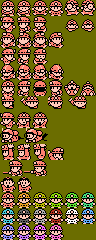
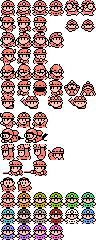
Amelioration de la gravité des rochers, png joueurs transparent, ajout du chnagement de couleur en fonction des niveaux, ajout mort du joueur et de son animation (fixe)

diff --git a/controller/src/main/java/controller/Controller.java b/controller/src/main/java/controller/Controller.java
@@ -108,12 +108,9 @@ public final class Controller implements IController {
 		}
 
 		if (nextBlockType != BlockType.WALL && nextBlockType != BlockType.ROCK){
-			if (nowBlockType == BlockType.DIRT){
-				model.getMap().TransformToDirt(model.IndexPos(nowX), model.IndexPos(nowY));
-			}
 
 
-			// gravité
+			// gravité des Rochers
 			int run = 0;
 			int prevTopX = model.getMap().CoordoneeXNextBlock(model.getPlayer(), "UP");
 			int prevTopY = model.getMap().CoordoneeYNextBlock(model.getPlayer(), "UP") - 16;
@@ -122,10 +119,17 @@ public final class Controller implements IController {
 			int i = 0;
 			BlockType prevTopType, prevBotType;
 			while (run == 0){
+				/*
 				System.out.println(prevTopX);
-				System.out.println(prevTopY);
+				System.out.println(prevTopY);*/
 				System.out.println(prevBotX);
 				System.out.println(prevBotY);
+				System.out.println("PLAYER:");
+				System.out.println(nextY);
+				System.out.println(nextX);
+				System.out.println("BLOCK");
+				//System.out.println(model.getMap().getBlocks().getPosY());
+
 				//prevTopX -= i * 16;
 				prevTopY += 16;
 				//prevBotX -= i * 16;
@@ -133,13 +137,26 @@ public final class Controller implements IController {
 
 				prevTopType =  model.getMap().getBlockType(model.IndexPos(prevTopX), model.IndexPos(prevTopY));
 				prevBotType =  model.getMap().getBlockType(model.IndexPos(prevBotX), model.IndexPos(prevBotY));
-				System.out.println(prevTopType);
-				System.out.println(prevBotType);
-				System.out.println(i);
+				//System.out.println(prevTopType);
+				//System.out.println(prevBotType);
+				//System.out.println(i);
 
 				if (prevBotType.equals(BlockType.EMPTY) && prevTopType.equals(BlockType.ROCK)){
 					model.getMap().TransformToDirt(model.IndexPos(prevTopX), model.IndexPos(prevTopY));
+					model.getMap().TransformToRock(model.IndexPos(prevBotX), model.IndexPos(prevBotY-12));
+					model.getMap().TransformToRock(model.IndexPos(prevBotX), model.IndexPos(prevBotY-8));
+					model.getMap().TransformToRock(model.IndexPos(prevBotX), model.IndexPos(prevBotY-4));
+					model.getMap().TransformToDirt(model.IndexPos(prevTopX), model.IndexPos(prevTopY));
 					model.getMap().TransformToRock(model.IndexPos(prevBotX), model.IndexPos(prevBotY));
+					if (prevBotX == nextX && prevBotY == nextY){
+						model.getPlayer().setPosX(nextX);
+						model.getPlayer().setPosY(nextY);
+
+						model.PlayerDeathAnnimation(prevTopX, prevBotY);
+						model.getMap().TransformToDirt(model.IndexPos(prevTopX), model.IndexPos(prevBotY));
+						view.printMessage("Vous avez perdu ... Votre score est de  : "+model.getPlayer().getScore());
+						System.exit(0);
+					}
 					System.out.println("done");
 
 				}else{
@@ -154,6 +171,10 @@ public final class Controller implements IController {
 			model.getPlayer().setPosX(nextX);
 			model.getPlayer().setPosY(nextY);
 			nowBlockType = nextBlockType;
+			//creuse quand dle joueur passe sur de la terre
+			if (nowBlockType == BlockType.DIRT){
+				model.getMap().TransformToDirt(model.IndexPos(nextX), model.IndexPos(nextY));
+			}
 			// Score diamant
 			if (nowBlockType.equals(BlockType.DIAMOND)){
 				model.getMap().TransformToDirt(nextX/16, nextY/16);

diff --git a/entity/src/main/java/entity/Map.java b/entity/src/main/java/entity/Map.java
@@ -13,6 +13,7 @@ public class Map extends Entity {
     private BufferedImage spriteSheet;
     private Image[] sprites;
 
+
     private Block[][] blocks;
 
     /**
@@ -31,19 +32,21 @@ public class Map extends Entity {
         // fill sprites array
         try {
             spriteSheet = ImageIO.read(new File("src/level.png"));
-            sprites = new Image[6];
+            sprites = new Image[7];
             // Wall
-            sprites[0] = spriteSheet.getSubimage(0*16, 0 * 16, 16, 16);
+            sprites[0] = spriteSheet.getSubimage(0*16, id*64 + 0 * 16, 16, 16);
             // Dirt
-            sprites[1] = spriteSheet.getSubimage(1*16, 0 * 16, 32, 16);
+            sprites[1] = spriteSheet.getSubimage(1*16, id*64 + 0 * 16, 32, 16);
             // Empty
-            sprites[2] = spriteSheet.getSubimage(2*16, 0 * 16, 16, 16);
+            sprites[2] = spriteSheet.getSubimage(2*16, id*64 + 0 * 16, 16, 16);
             // Rock
-            sprites[3] = spriteSheet.getSubimage(3*16, 0 * 16, 16, 16);
+            sprites[3] = spriteSheet.getSubimage(3*16, id*64 + 0 * 16, 16, 16);
             // DIAMOND
-            sprites[4] = spriteSheet.getSubimage(5*16, 0 * 16, 16, 16);
+            sprites[4] = spriteSheet.getSubimage(5*16, id*64 + 0 * 16, 16, 16);
             //END
-            sprites[5] = spriteSheet.getSubimage(7*16, 0 * 16, 16, 16);
+            sprites[5] = spriteSheet.getSubimage(7*16, id*64 + 0 * 16, 16, 16);
+            //STAR
+            sprites[6] = spriteSheet.getSubimage(11*16, id*64 + 0 * 16, 16, 16);
         } catch (IOException e) {
             e.printStackTrace();
         }
@@ -228,6 +231,9 @@ public class Map extends Entity {
     }
     public void TransformToRock(int x, int y){
         getBlocks(x, y).setType(BlockType.ROCK);
+    }
+    public void TransformToStar(int x, int y){
+        getBlocks(x, y).setType(BlockType.STAR);
     }
     public BlockType TypeCurrentBlock(Player player){
         return this.blocks[(player.getPosY()/16) - 1][(player.getPosX()/16)].getType();

diff --git a/entity/src/main/java/entity/Player.java b/entity/src/main/java/entity/Player.java
@@ -12,23 +12,21 @@ public class Player extends Entity {
     private Image[] sprites;
     private int activeSprite;
     private int score;
+    private PlayerSprite frame;
 
     public Player(final int x, final int y) {
         setPosX(x);
         setPosY(y);
         setScore(0);
+        setFrame(PlayerSprite.NORMAL);
         /** ? Entity or Model ? **/
         try {
             spriteSheet = ImageIO.read(new File("src/player.png"));
             sprites = new Image[4];
             // Perso à l'arrêt
             sprites[0] = spriteSheet.getSubimage(0*16, 0 * 16, 16, 16);
-            // Dirt
-            sprites[1] = spriteSheet.getSubimage(1*16, 0 * 16, 32, 16);
-            // Empty
-            sprites[2] = spriteSheet.getSubimage(2*16, 0 * 16, 16, 16);
-            // Rock
-            sprites[3] = spriteSheet.getSubimage(3*16, 0 * 16, 16, 16);
+            //mort
+            sprites[1] = spriteSheet.getSubimage(5*16, 5 * 16, 16, 16);
         } catch (IOException e) {
             e.printStackTrace();
         }
@@ -49,6 +47,15 @@ public class Player extends Entity {
     public Image getPlayerSprites(int index) {
         return sprites[index];
     }
+
+    public PlayerSprite getFrame() {
+        return frame;
+    }
+
+    public void setFrame(PlayerSprite frame) {
+        this.frame = frame;
+    }
+
     public int getPosX() {
         return posX;
     }
@@ -99,7 +106,6 @@ public class Player extends Entity {
     public Image getSprites(int index) {
         return sprites[index];
     }
-
 
 
 

diff --git a/view/src/main/java/view/ViewPanel.java b/view/src/main/java/view/ViewPanel.java
@@ -94,12 +94,23 @@ class ViewPanel extends JPanel implements Observer {
 					case END:
 						graphics.drawImage(viewFrame.getModel().getMap().getSprites(5),blocks[y][x].getPosX(),blocks[y][x].getPosY(), this);
 						break;
+					case STAR:
+						graphics.drawImage(viewFrame.getModel().getMap().getSprites(6),blocks[y][x].getPosX(),blocks[y][x].getPosY(), this);
+						break;
 				}
 			}
 		}
 
 		// Draw Player
-        graphics.drawImage(viewFrame.getModel().getPlayer().getPlayerSprites(0),viewFrame.getModel().getPlayer().getPosX(),viewFrame.getModel().getPlayer().getPosY(), this);
+		switch (viewFrame.getModel().getPlayer().getFrame()){
+			case NORMAL:
+				graphics.drawImage(viewFrame.getModel().getPlayer().getSprites(0),viewFrame.getModel().getPlayer().getPosX(),viewFrame.getModel().getPlayer().getPosY(), this);
+				break;
+			case MORT:
+				graphics.drawImage(viewFrame.getModel().getPlayer().getSprites(1),viewFrame.getModel().getPlayer().getPosX(),viewFrame.getModel().getPlayer().getPosY(), this);
+				break;
+		}
+        //graphics.drawImage(viewFrame.getModel().getPlayer().getPlayerSprites(0),viewFrame.getModel().getPlayer().getPosX(),viewFrame.getModel().getPlayer().getPosY(), this);
 		// Draw score
         graphics.drawString("Score : " + String.valueOf(viewFrame.getModel().getPlayer().getScore()), 20,300);
 

diff --git a/model/src/main/java/model/Model.java b/model/src/main/java/model/Model.java
@@ -8,6 +8,7 @@ import contract.IModel;
 import entity.HelloWorld;
 import entity.Map;
 import entity.Player;
+import entity.PlayerSprite;
 
 import javax.swing.*;
 import javax.swing.text.View;
@@ -120,5 +121,18 @@ public final class Model extends Observable implements IModel {
 
 	public void setWin(boolean win) {
 		this.win = win;
+	}
+
+	public void PlayerDeathAnnimation(int prevTopX, int prevBotY){
+		getPlayer().setFrame(PlayerSprite.MORT);
+		getMap().TransformToStar(IndexPos(prevTopX - 16), IndexPos(prevBotY));
+		getMap().TransformToStar(IndexPos(prevTopX - 16), IndexPos(prevBotY-16));
+		getMap().TransformToStar(IndexPos(prevTopX - 16), IndexPos(prevBotY+16));
+		getMap().TransformToStar(IndexPos(prevTopX), IndexPos(prevBotY+16));
+		getMap().TransformToStar(IndexPos(prevTopX), IndexPos(prevBotY-16));
+		getMap().TransformToStar(IndexPos(prevTopX + 16), IndexPos(prevBotY-16));
+		getMap().TransformToStar(IndexPos(prevTopX + 16), IndexPos(prevBotY+16));
+		getMap().TransformToStar(IndexPos(prevTopX+16), IndexPos(prevBotY));
+
 	}
 }

diff --git a/contract/src/main/java/contract/IModel.java b/contract/src/main/java/contract/IModel.java
@@ -39,6 +39,8 @@ public interface IModel {
 
 	public boolean getWin();
 	public void setWin(boolean win);
+
+	public void PlayerDeathAnnimation(int prevTopX, int prevBotY);
 	/**
 	 * Gets the observable.
 	 *

diff --git a/entity/src/main/java/entity/BlockType.java b/entity/src/main/java/entity/BlockType.java
@@ -6,5 +6,6 @@ public enum BlockType {
     EMPTY,
     ROCK,
     DIAMOND,
-    END
+    END,
+    STAR
 }

diff --git a/entity/src/main/java/entity/PlayerSprite.java b/entity/src/main/java/entity/PlayerSprite.java
@@ -1,0 +1,6 @@
+package entity;
+
+public enum PlayerSprite {
+    NORMAL,
+    MORT
+}
